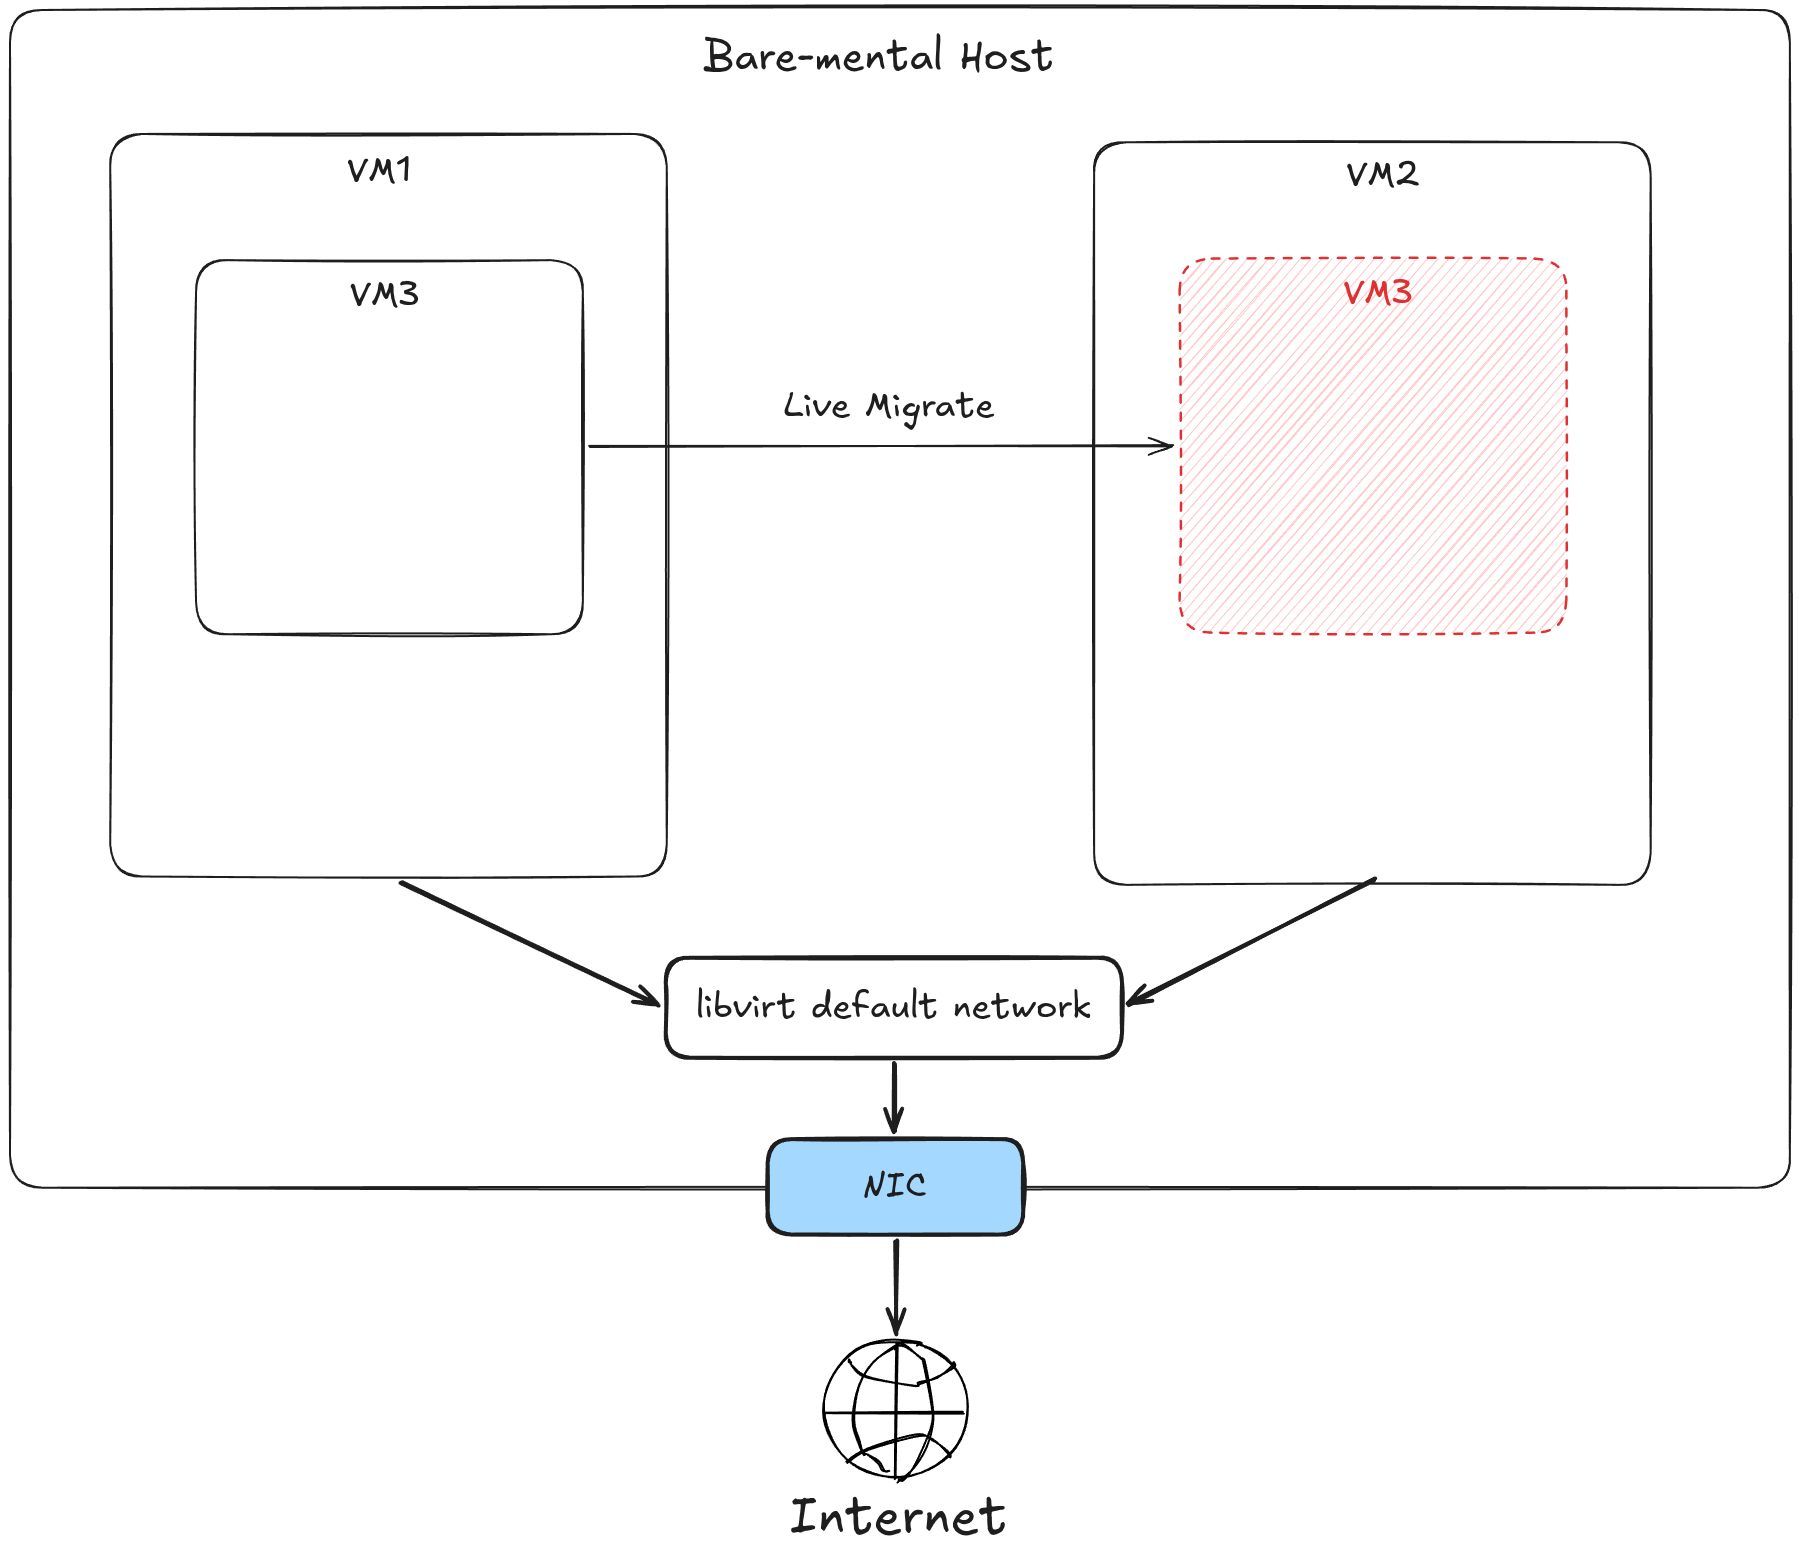
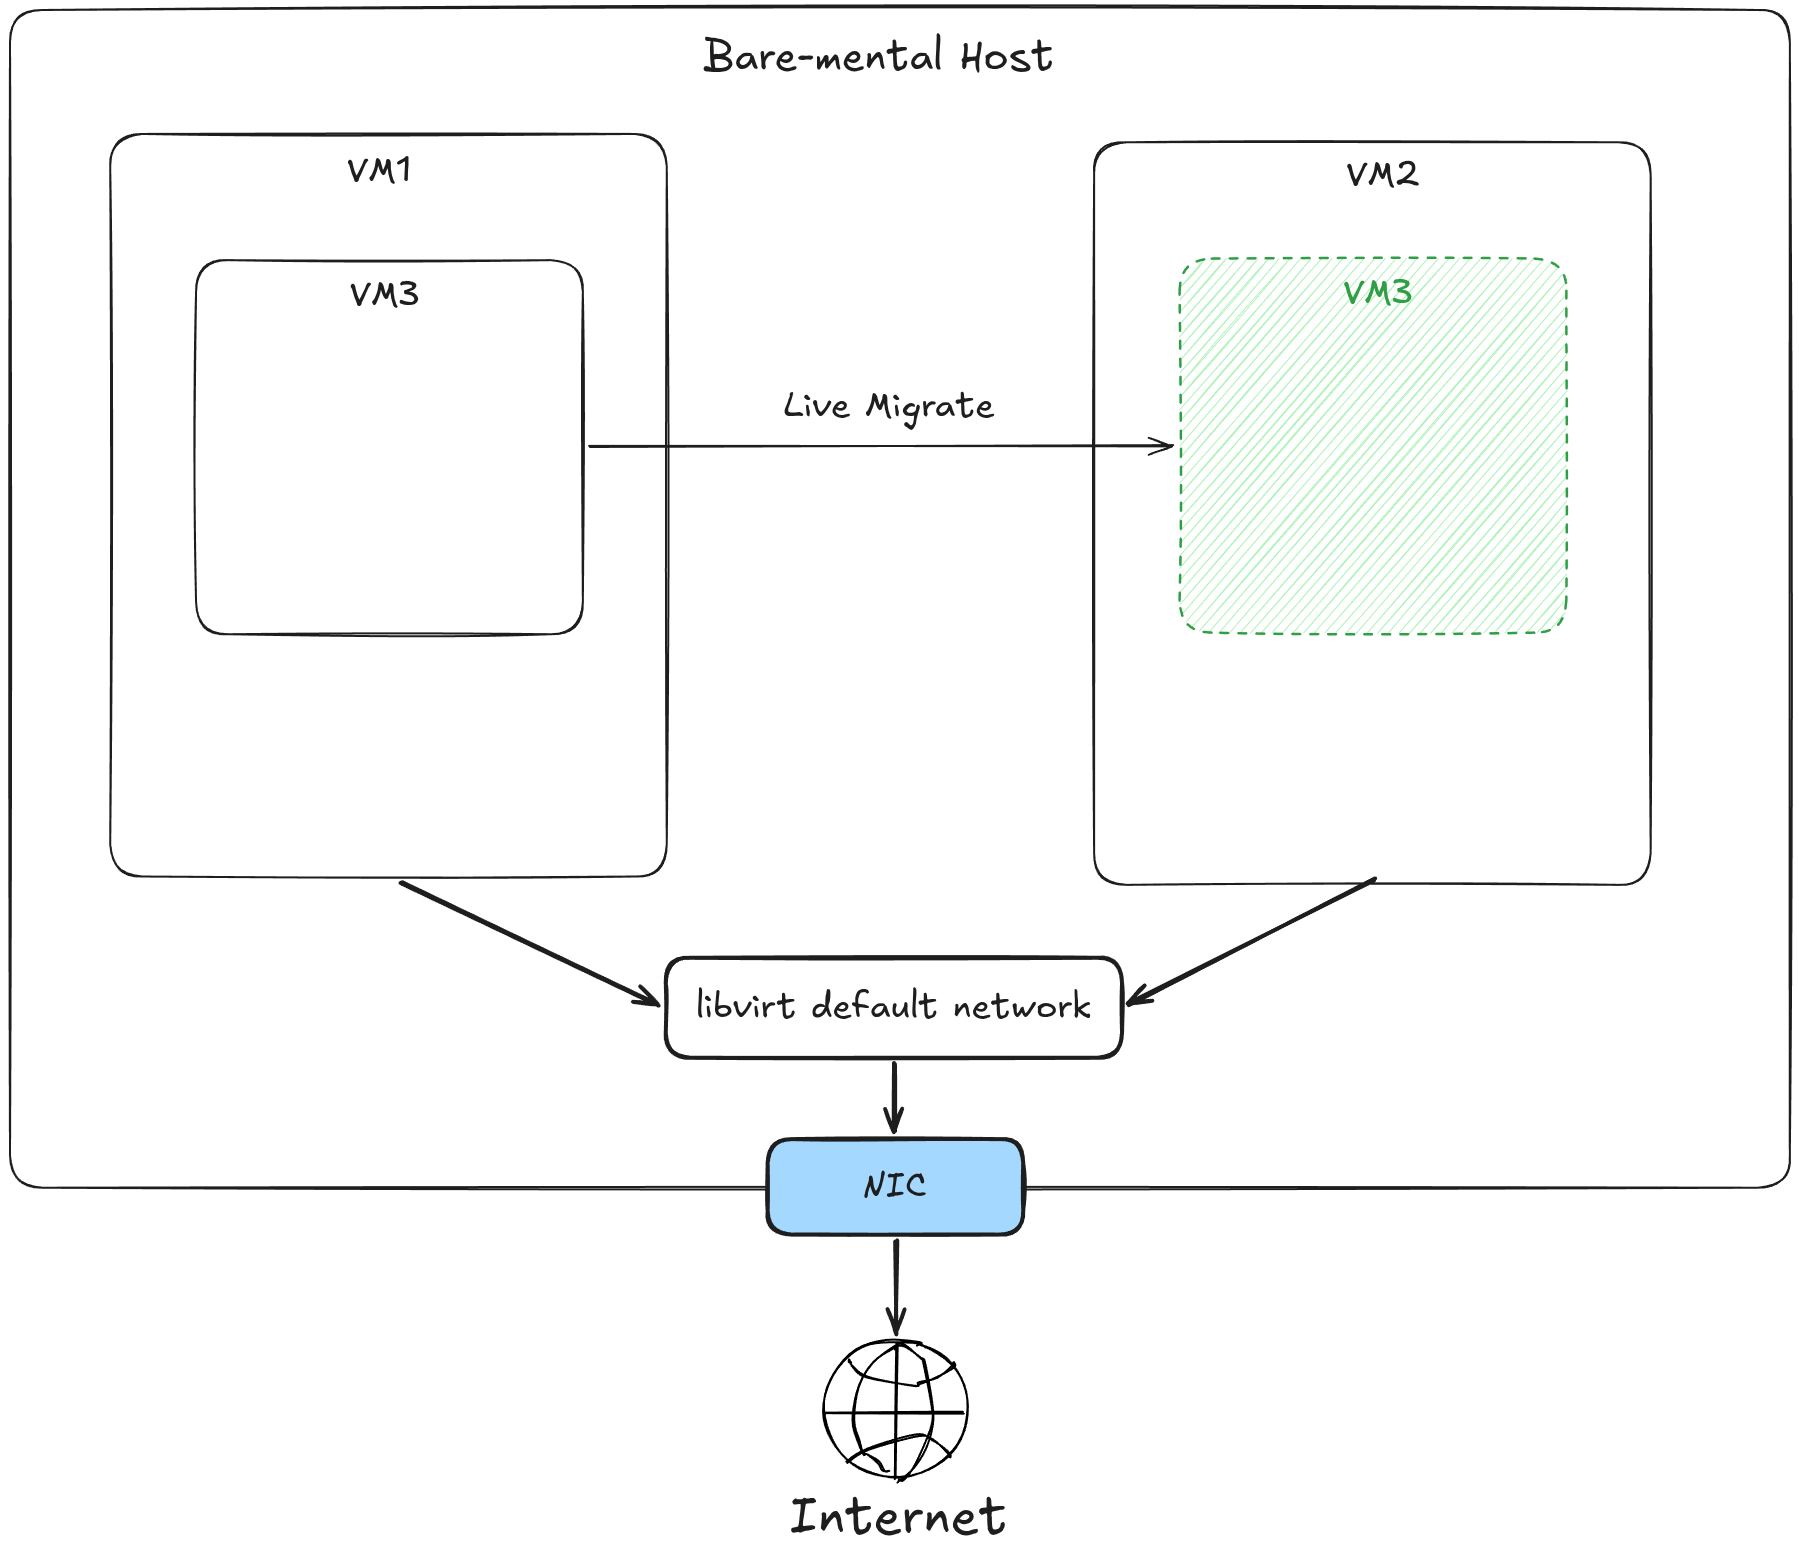
update image in README.md

Changed region(s): [[0.6537, 0.1537, 0.8716, 0.3997]]

diff --git a/openstack-networking/README.md b/openstack-networking/README.md
@@ -52,3 +52,6 @@ SSH vào VM1 và thực hiện live migrate VM3 từ VM1 sang VM2:
 - https://forum.ansible.com/t/creating-a-new-vm-with-libvirt-am-i-doing-this-right/43560
 - ChatGPT
 # 3. Expert
+<div align="center">
+  <img src="img/image-11.png" alt="alt text" width="550"/>
+</div>
